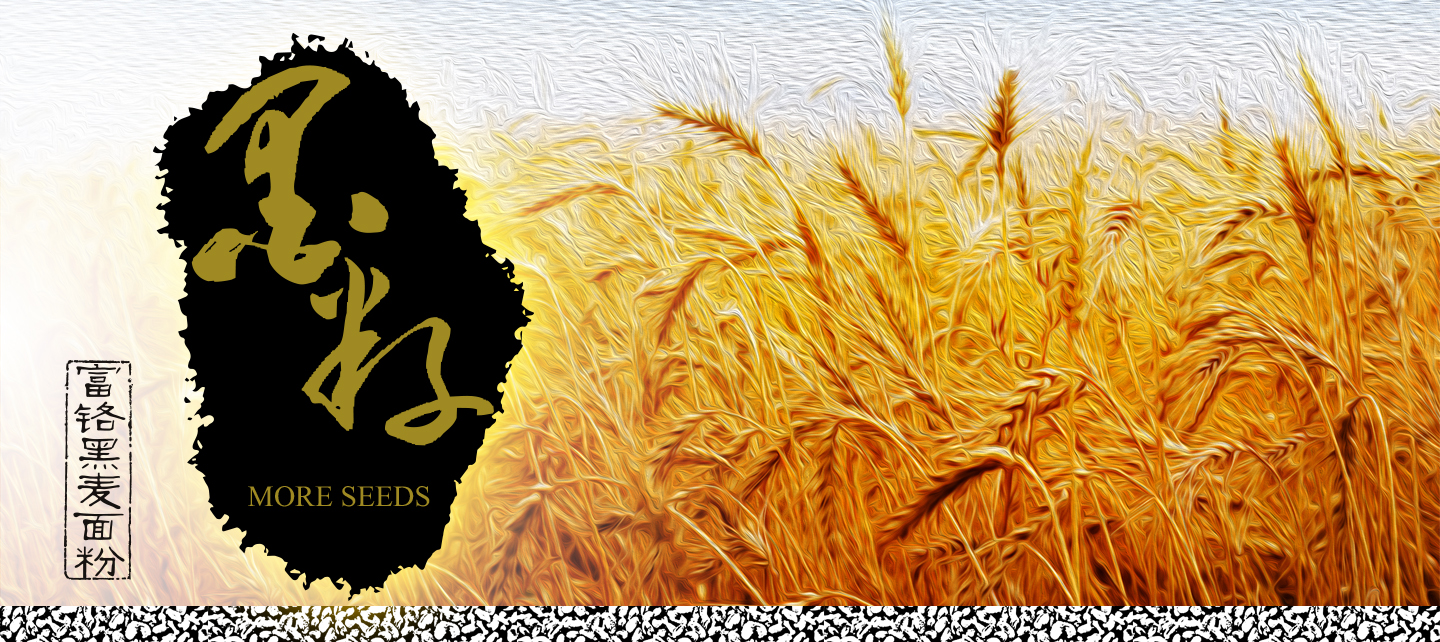
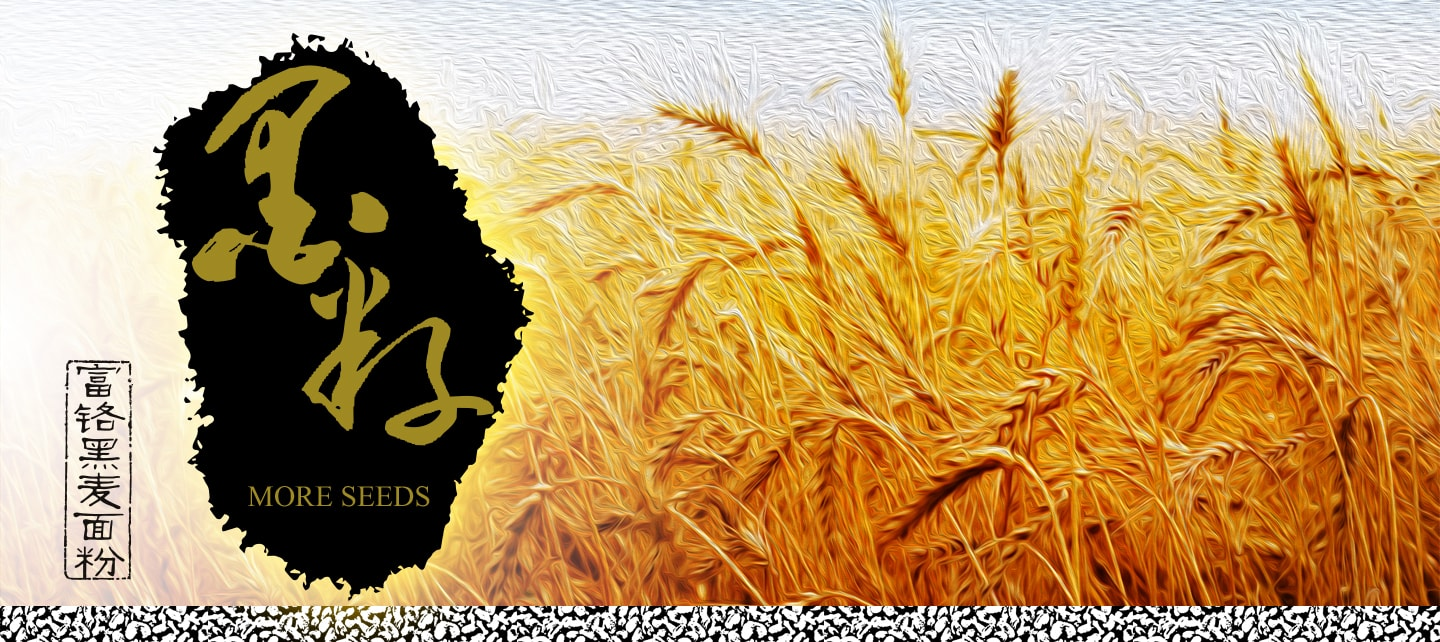
smaller silder and new md file

diff --git a/content/blog/产品功能介绍.md b/content/blog/产品功能介绍.md
@@ -15,26 +15,26 @@ draft: false
 
 **经实验证实冀紫439黑小麦有以下功能**：
 
-**预防癌症**
+## 预防癌症
 
 冀紫439黑麦中含有的不溶性纤维本酚素，异黄酮以及微量元素硒，均具有明显的抗癌作用。经常食用黑麦食品可有效降低乳腺癌、前列腺癌和大肠癌等疾病的发病几率。
 
-**延缓衰老**
+## **延缓衰老**
 
 冀紫439黑麦中含有微量元素硒，可有效清除人体体内氧自由基，延缓机体老化。 
 
-**降压降脂**
+## **降压降脂**
 
 冀紫439黑麦中富含可溶性黑麦纤维，可降低血糖，降低胆固醇，阻止脂质过氧化，对高血压、高脂血症等疾病都有明显的防治作用。
 
-**预防糖尿病**
+## **预防糖尿病**
 
 冀紫439黑麦面包的结构紧密并且湿度大，在人体内分解的速度较慢，只需要较少的胰岛素就能保持人体血液的平衡，因此常吃黑麦面包可以达到预防糖尿病的目的。 
 
-**促进发育**
+## **促进发育**
 
 冀紫439黑麦中含有大量人体不能自我合成的氨基酸，其中赖氨酸的含量是小麦含量的1.5倍，对于儿童生长发育不可缺少的组氨酸含量更是小麦含量的1.79倍。多食用黑麦及其制品，可以促进少年儿童健康发育。
 
-**护齿壮骨**
+## **护齿壮骨**
 
 冀紫439黑麦中含有的微量元素氟是骨骼和牙齿的重要成分，经常食用黑麦及制品可预防龋齿和老年人的骨质疏松症等。
